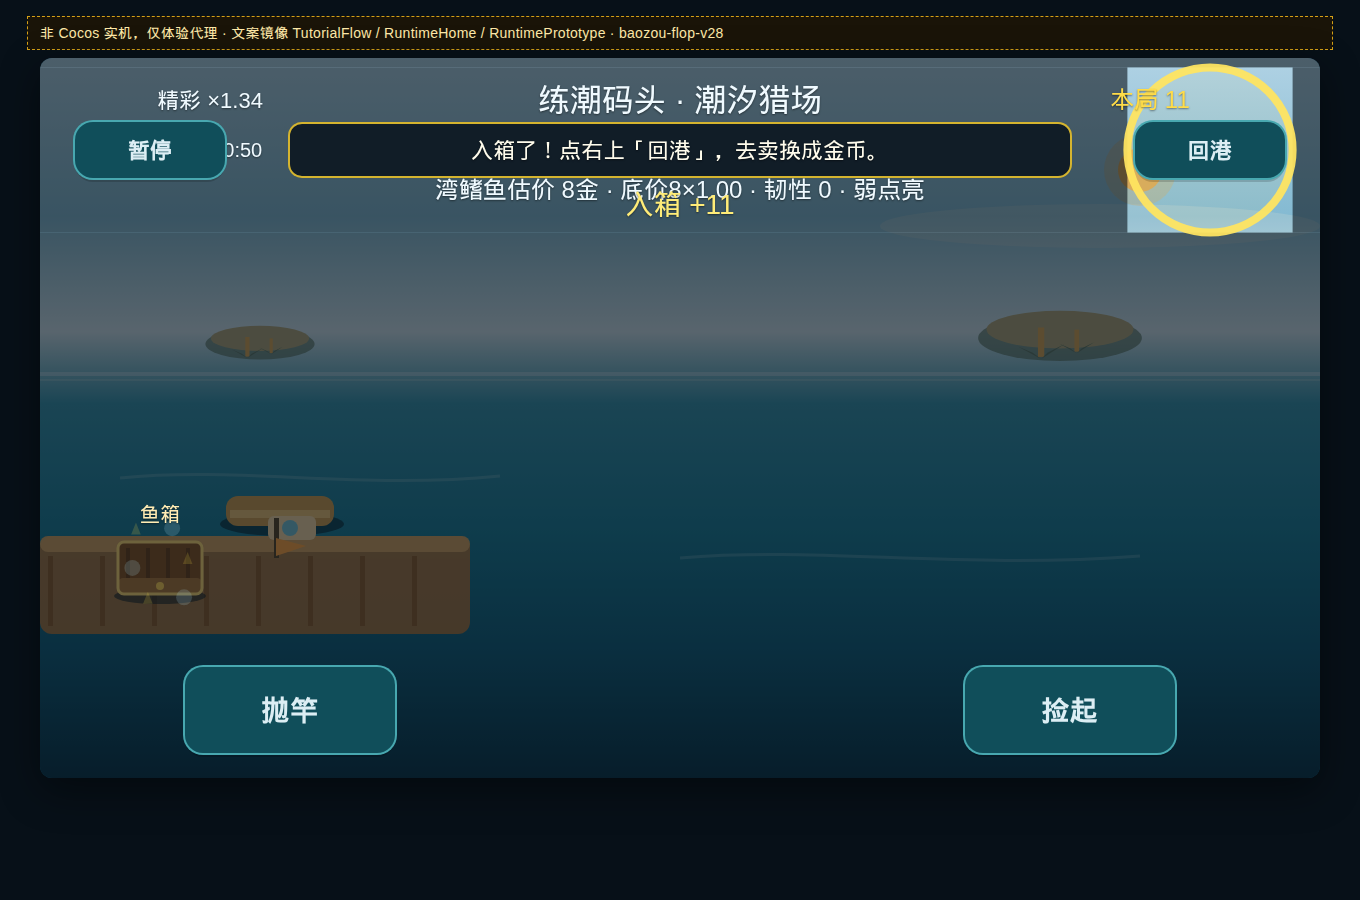
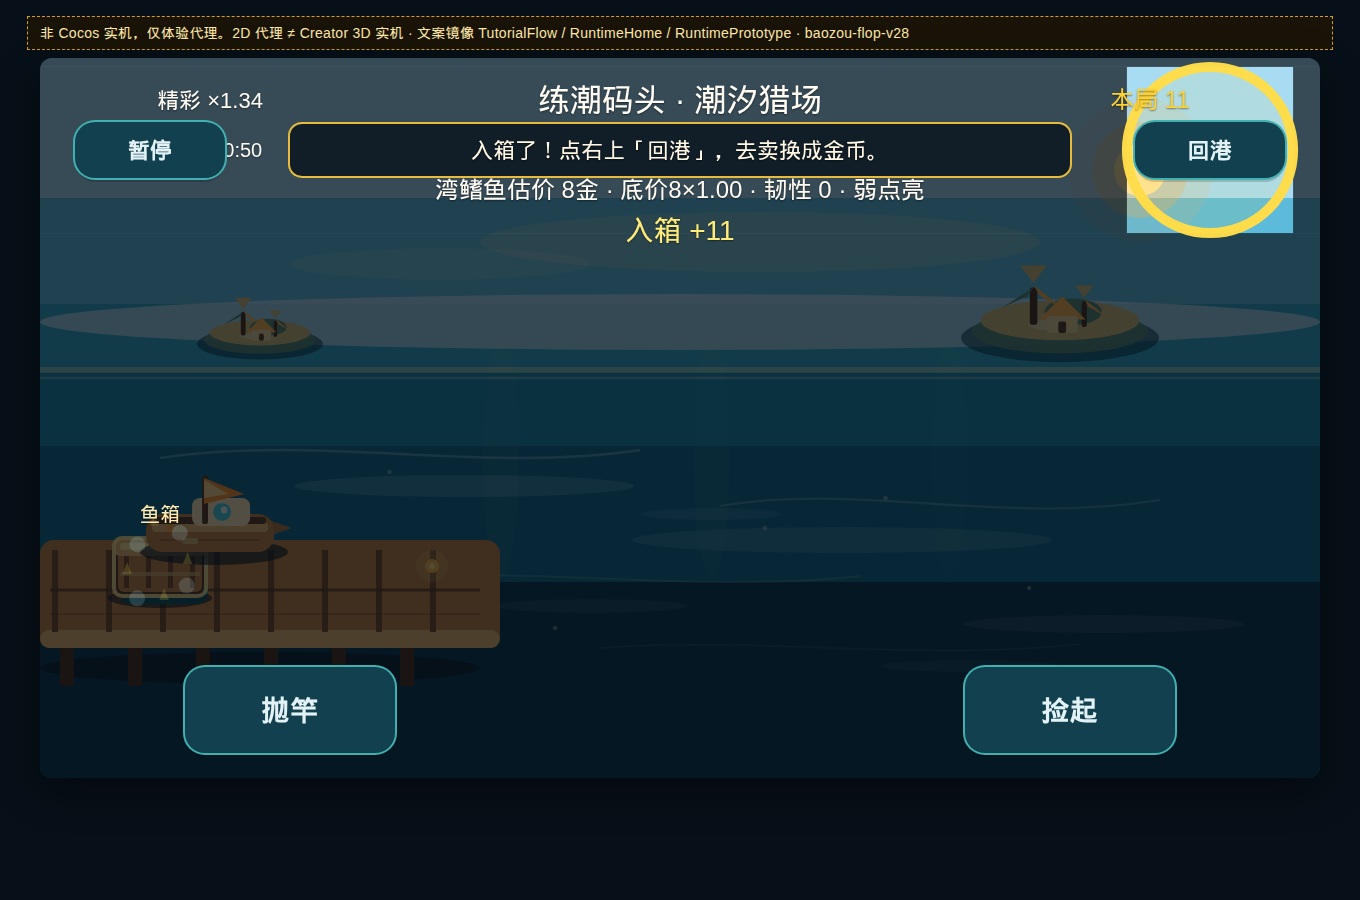
修代理入箱步时机，并更新非 3D 实机截图
弱点未上岸也立刻推进教学步，避免挡住丢掉入箱。
截图顶栏写明 2D 代理不是 Creator 3D。

diff --git a/tools/first-run-preview/preview.js b/tools/first-run-preview/preview.js
@@ -876,7 +876,7 @@ function onCast() {
   render();
 }
 
-function applyWeak() {
+function applyWeak(knockNow = true) {
   tutorialStep = "reel";
   hooked = true;
   pickable = true;
@@ -884,10 +884,12 @@ function applyWeak() {
   fishFace = "stunned";
   multiplier = COPY.firstRun.comboHudAfter;
   showCallout(COPY.firstRun.calloutWeak);
-  if (!flopBody) flopBody = beginFlopPreview(fishX, fishY);
-  flopBody = knockPreview(flopBody, boatX, boatY, 20);
   burst("weak", fishX, fishY);
-  burst("smash", fishX, fishY);
+  if (knockNow) {
+    if (!flopBody) flopBody = beginFlopPreview(fishX, fishY);
+    flopBody = knockPreview(flopBody, boatX, boatY, 20);
+    burst("smash", fishX, fishY);
+  }
   playSfx("weak");
   status = COPY.tutorialPrompts.reel;
   fishName = `${COPY.firstRun.liveQuoteHooked} · 韧性 0 · 弱点亮`;
@@ -895,11 +897,8 @@ function applyWeak() {
 
 function onWeak() {
   if (tutorialStep !== "weakPoint") return;
-  if (yanking) {
-    pendingWeak = true;
-    return;
-  }
-  applyWeak();
+  if (yanking) pendingWeak = true;
+  applyWeak(!yanking);
   render();
 }
 
@@ -993,7 +992,8 @@ function tick(now) {
       burst("splash", next.x, next.y + 24);
       if (pendingWeak) {
         pendingWeak = false;
-        applyWeak();
+        flopBody = knockPreview(flopBody, boatX, boatY, 20);
+        burst("smash", next.x, next.y);
       }
     }
   } else if (flopBody && !carrying) {
